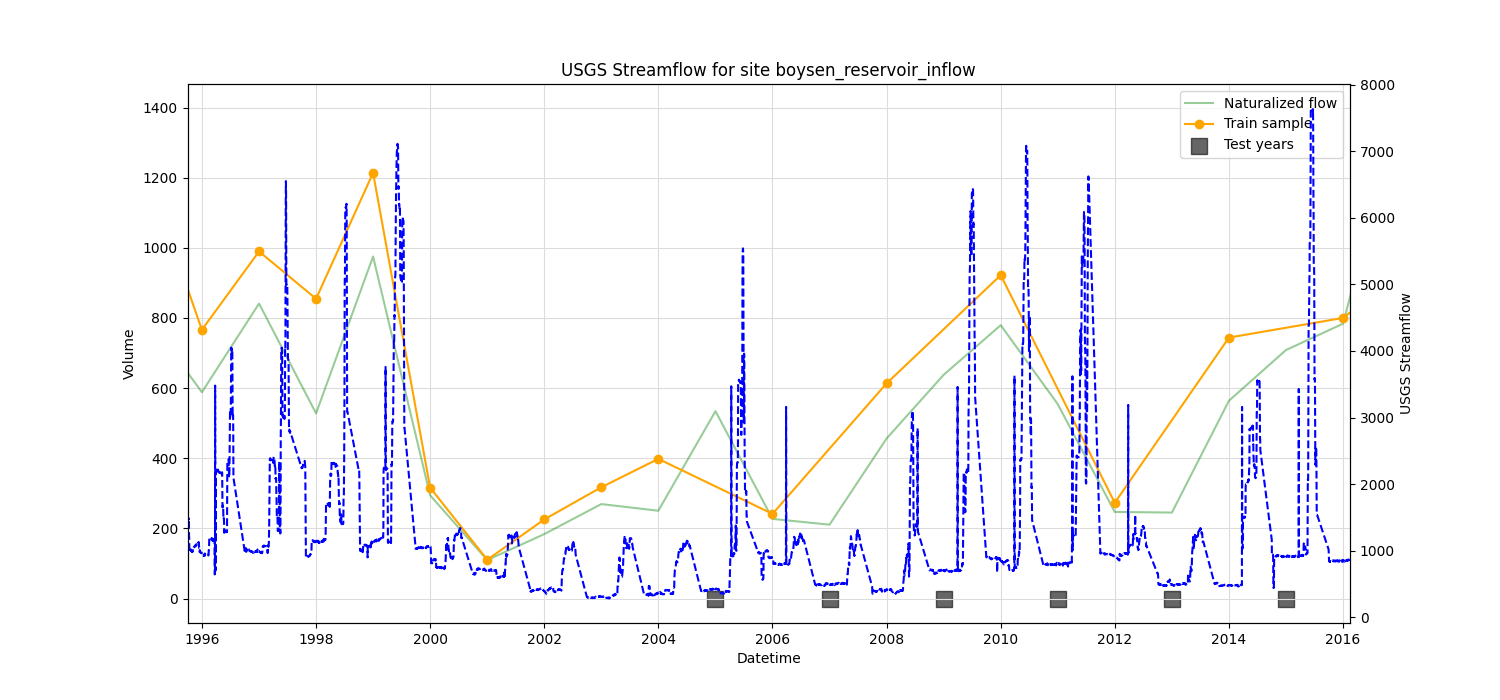
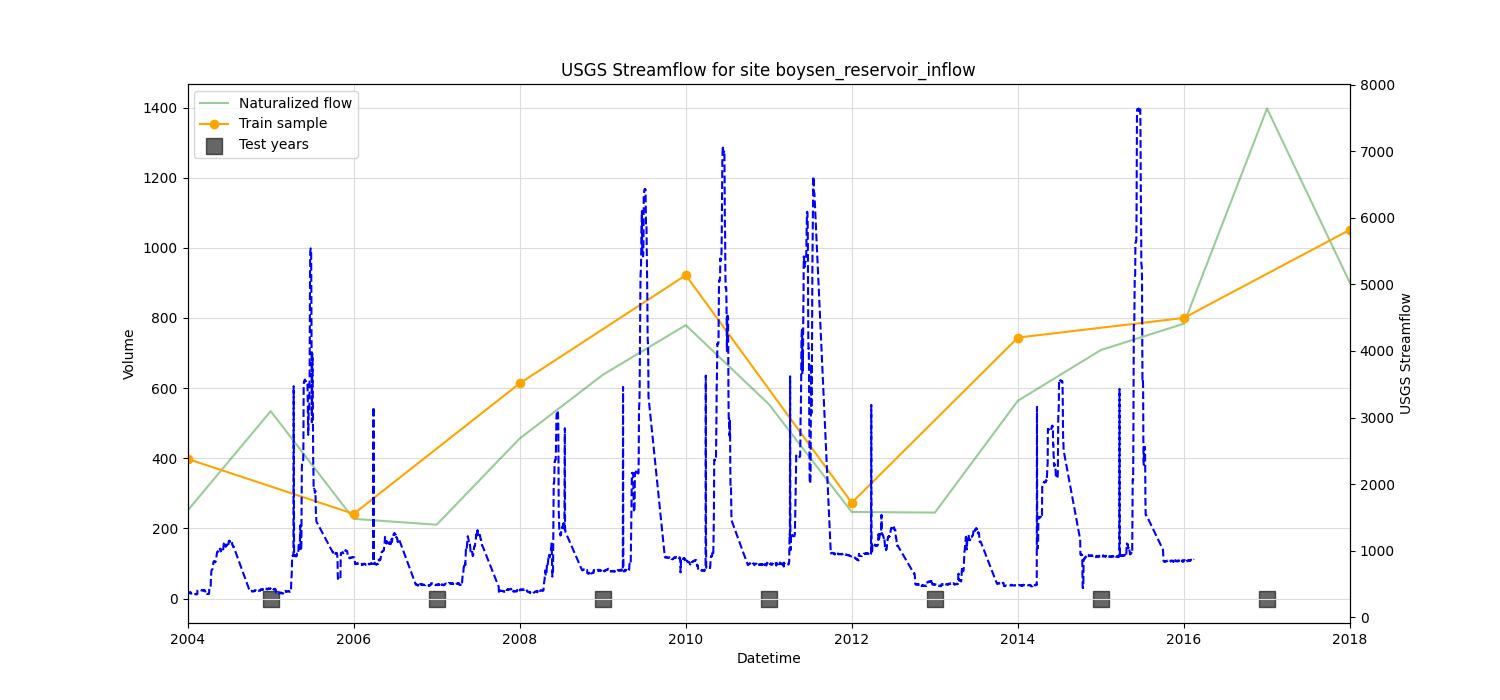
train model based on streamflow

diff --git a/wasu/development/models/train_model.py b/wasu/development/models/train_model.py
@@ -5,6 +5,7 @@ from typing import Union
 import pandas as pd
 from loguru import logger
 
+from wasu.development.main import collect_usgs_streamflow_time_series_for_site
 from wasu.development.output import Output
 
 
@@ -131,6 +132,89 @@ class AdvancedRepeatingTrainModel(TrainModel):
             row['volume_10'] = previous_year_value - (previous_year_value * self.lower_ratio)
             row['volume_50'] = previous_year_value
             row['volume_90'] = previous_year_value + (previous_year_value * self.above_ratio)
+
+            submit.append(pd.DataFrame(row).T)
+
+        submit = pd.concat(submit)
+        return submit
+
+
+class StreamFlowRegression(TrainModel):
+    """ Create forecasts based on streamflow USGS data """
+
+    def __init__(self, train_df: pd.DataFrame):
+        super().__init__(train_df)
+
+        self.lower_ratio = 0.3
+        self.above_ratio = 0.3
+
+    def predict(self, submission_format: pd.DataFrame, **kwargs) -> pd.DataFrame:
+        self.train_df = self.train_df.dropna()
+
+        metadata: pd.DataFrame = kwargs['metadata']
+        path_to_streamflow: Path = kwargs['path_to_streamflow']
+
+        df_to_send = []
+        # For every site
+        for site in list(submission_format['site_id'].unique()):
+            streamflow_df = collect_usgs_streamflow_time_series_for_site(path_to_streamflow, site)
+            if streamflow_df is None:
+                # TODO Generate alternative forecast in that case
+                continue
+
+            metadata_site = metadata[metadata['site_id'] == site]
+            season_start_month = metadata_site['season_start_month'].values[0]
+            season_end_month = metadata_site['season_end_month'].values[0]
+
+            logger.info(f'Generating forecast for site {site}. Start season month: {season_start_month}. '
+                        f'End season month: {season_end_month}')
+
+            submission_site = submission_format[submission_format['site_id'] == site]
+            site_df = self.train_df[self.train_df['site_id'] == site]
+            site_df = site_df.sort_values(by='year')
+
+            submit = self._generate_forecasts_for_site(historical_values=site_df,
+                                                       streamflow_df=streamflow_df,
+                                                       submission_site=submission_site)
+
+            df_to_send.append(submit)
+
+        df_to_send = pd.concat(df_to_send)
+        return df_to_send
+
+    def _generate_forecasts_for_site(self, historical_values: pd.DataFrame,
+                                     streamflow_df: pd.DataFrame, submission_site: pd.DataFrame):
+        streamflow_df['julian_datetime'] = pd.DatetimeIndex(streamflow_df['datetime']).to_julian_date()
+        streamflow_df['julian_datetime'] = streamflow_df['julian_datetime'] .round(3)
+
+        submit = []
+        for row_id, row in submission_site.iterrows():
+            # For each datetime label
+            issue_date = row['issue_date']
+
+            # Get also issue date in julian
+            issue_date_df = pd.DataFrame({'issue_date': [issue_date]})
+            issue_date_df['julian_datetime'] = pd.DatetimeIndex(issue_date_df['issue_date']).to_julian_date()
+            issue_date_df['julian_datetime'] = issue_date_df['julian_datetime'].round(3)
+            issue_date_julian = issue_date_df['julian_datetime'].values[0]
+
+            # Volume from the previous year
+            known_historical_values = historical_values[historical_values['year'] < issue_date]
+            known_streamflow_values = streamflow_df[streamflow_df['julian_datetime'] < issue_date_julian]
+
+            # Aggregate the data
+            known_streamflow_values['year'] = known_streamflow_values['datetime'].dt.year
+            dataframe_for_model_fitting = []
+            for historical_year in list(known_historical_values['year'].dt.year):
+                if historical_year not in list(known_streamflow_values['year'].unique()):
+                    continue
+
+                same_datetime_in_past = []
+                print(issue_date.dayofyear, issue_date.day, issue_date)
+
+            row['volume_10'] = 0
+            row['volume_50'] = 0
+            row['volume_90'] = 0
 
             submit.append(pd.DataFrame(row).T)
 

diff --git a/wasu/development/vis/visualization.py b/wasu/development/vis/visualization.py
@@ -5,29 +5,8 @@ import matplotlib.pyplot as plt
 import pandas as pd
 from loguru import logger
 
+from wasu.development.main import collect_usgs_streamflow_time_series_for_site
 from wasu.development.paths import path_to_data_folder, path_to_examples_folder
-
-
-def collect_usgs_streamflow_time_series_for_site(path_to_folder: Path, site_id: str) -> Union[pd.DataFrame, None]:
-    """ Collect time series for all available years """
-    all_files = list(path_to_folder.iterdir())
-    all_files.sort()
-
-    site_df = []
-    for year_folder in all_files:
-        try:
-            site_year = pd.read_csv(Path(year_folder, f'{site_id}.csv'), parse_dates=['datetime'])
-            site_df.append(site_year)
-        except Exception as ex:
-            logger.warning(f'Cannot process USGS streamflow file for site {site_id} in {year_folder} due to {ex}')
-
-    if len(site_df) < 1:
-        logger.info(f'There is no data for site {site_id}')
-        return None
-
-    site_df = pd.concat(site_df)
-    site_df = site_df.sort_values(by='datetime')
-    return site_df
 
 
 class TimeSeriesPlot:
@@ -51,7 +30,7 @@ class TimeSeriesPlot:
                                              parse_dates=['issue_date'])
 
         # Get missing years (in test years)
-        all_years = list(range(2000, 2023))
+        all_years = list(range(2000, 2024))
         test_years = set(all_years) - set(list(self.train['year'].dt.year))
         self.test_years = pd.DataFrame({'year': list(test_years)})
         self.test_years['volume'] = 0
@@ -121,7 +100,8 @@ class TimeSeriesPlot:
                         label='Test years', s=140, alpha=0.6, marker="s")
             ax1.tick_params(axis='y')
             ax1.legend()
-            plt.xlim(min(streamflow_df['datetime']), max(streamflow_df['datetime']))
+            plt.xlim(min(self.test_years['year']) - pd.DateOffset(years=1),
+                     max(self.test_years['year']) - pd.DateOffset(years=5))
             plt.grid(c='#DCDCDC')
 
             ax2 = ax1.twinx()
@@ -130,6 +110,8 @@ class TimeSeriesPlot:
             plt.xlim(min(streamflow_df['datetime']), max(streamflow_df['datetime']))
             ax2.tick_params(axis='y')
             plt.title(f"USGS Streamflow for site {site}")
+            plt.xlim(min(self.test_years['year']) - pd.DateOffset(years=1),
+                     max(self.test_years['year']) - pd.DateOffset(years=5))
             plt.savefig(Path(plots_folder, f'{site}_time_series_plot.png'))
             plt.close()
 

diff --git a/examples/predict_based_on_usgs_streamflow.py b/examples/predict_based_on_usgs_streamflow.py
@@ -1,0 +1,31 @@
+from pathlib import Path
+
+import warnings
+
+import pandas as pd
+
+from wasu.development.models.train_model import AdvancedRepeatingTrainModel, StreamFlowRegression
+from wasu.development.vis.visualization import TimeSeriesPlot
+
+warnings.filterwarnings('ignore')
+
+
+def generate_forecast_based_on_streamflow():
+    train_df = pd.read_csv(Path('../data/train.csv'), parse_dates=['year'])
+    submission_format = pd.read_csv(Path('../data/submission_format.csv'), parse_dates=['issue_date'])
+
+    # Load dataframe with metadata
+    metadata = pd.read_csv(Path('../data/metadata_TdPVeJC.csv'))
+    path_to_streamflow = Path('../data/usgs_streamflow').resolve()
+
+    model = StreamFlowRegression(train_df=train_df)
+    predicted = model.predict(submission_format, metadata=metadata, path_to_streamflow=path_to_streamflow)
+
+    # Save into file
+    model.save_predictions_as_submit(predicted, path='./results/advanced_repeating_07_11_2023.csv')
+
+    TimeSeriesPlot().predicted_time_series(predicted)
+
+
+if __name__ == '__main__':
+    generate_forecast_based_on_streamflow()

diff --git a/wasu/development/main.py b/wasu/development/main.py
@@ -1,4 +1,30 @@
-from typing import Dict, Union
+from pathlib import Path
+from typing import Union, Dict
+
+import pandas as pd
+from loguru import logger
+
+
+def collect_usgs_streamflow_time_series_for_site(path_to_folder: Path, site_id: str) -> Union[pd.DataFrame, None]:
+    """ Collect time series for all available years """
+    all_files = list(path_to_folder.iterdir())
+    all_files.sort()
+
+    site_df = []
+    for year_folder in all_files:
+        try:
+            site_year = pd.read_csv(Path(year_folder, f'{site_id}.csv'), parse_dates=['datetime'])
+            site_df.append(site_year)
+        except Exception as ex:
+            logger.warning(f'Cannot process USGS streamflow file for site {site_id} in {year_folder} due to {ex}')
+
+    if len(site_df) < 1:
+        logger.info(f'There is no data for site {site_id}')
+        return None
+
+    site_df = pd.concat(site_df)
+    site_df = site_df.sort_values(by='datetime')
+    return site_df
 
 
 class WasuPipeline:
